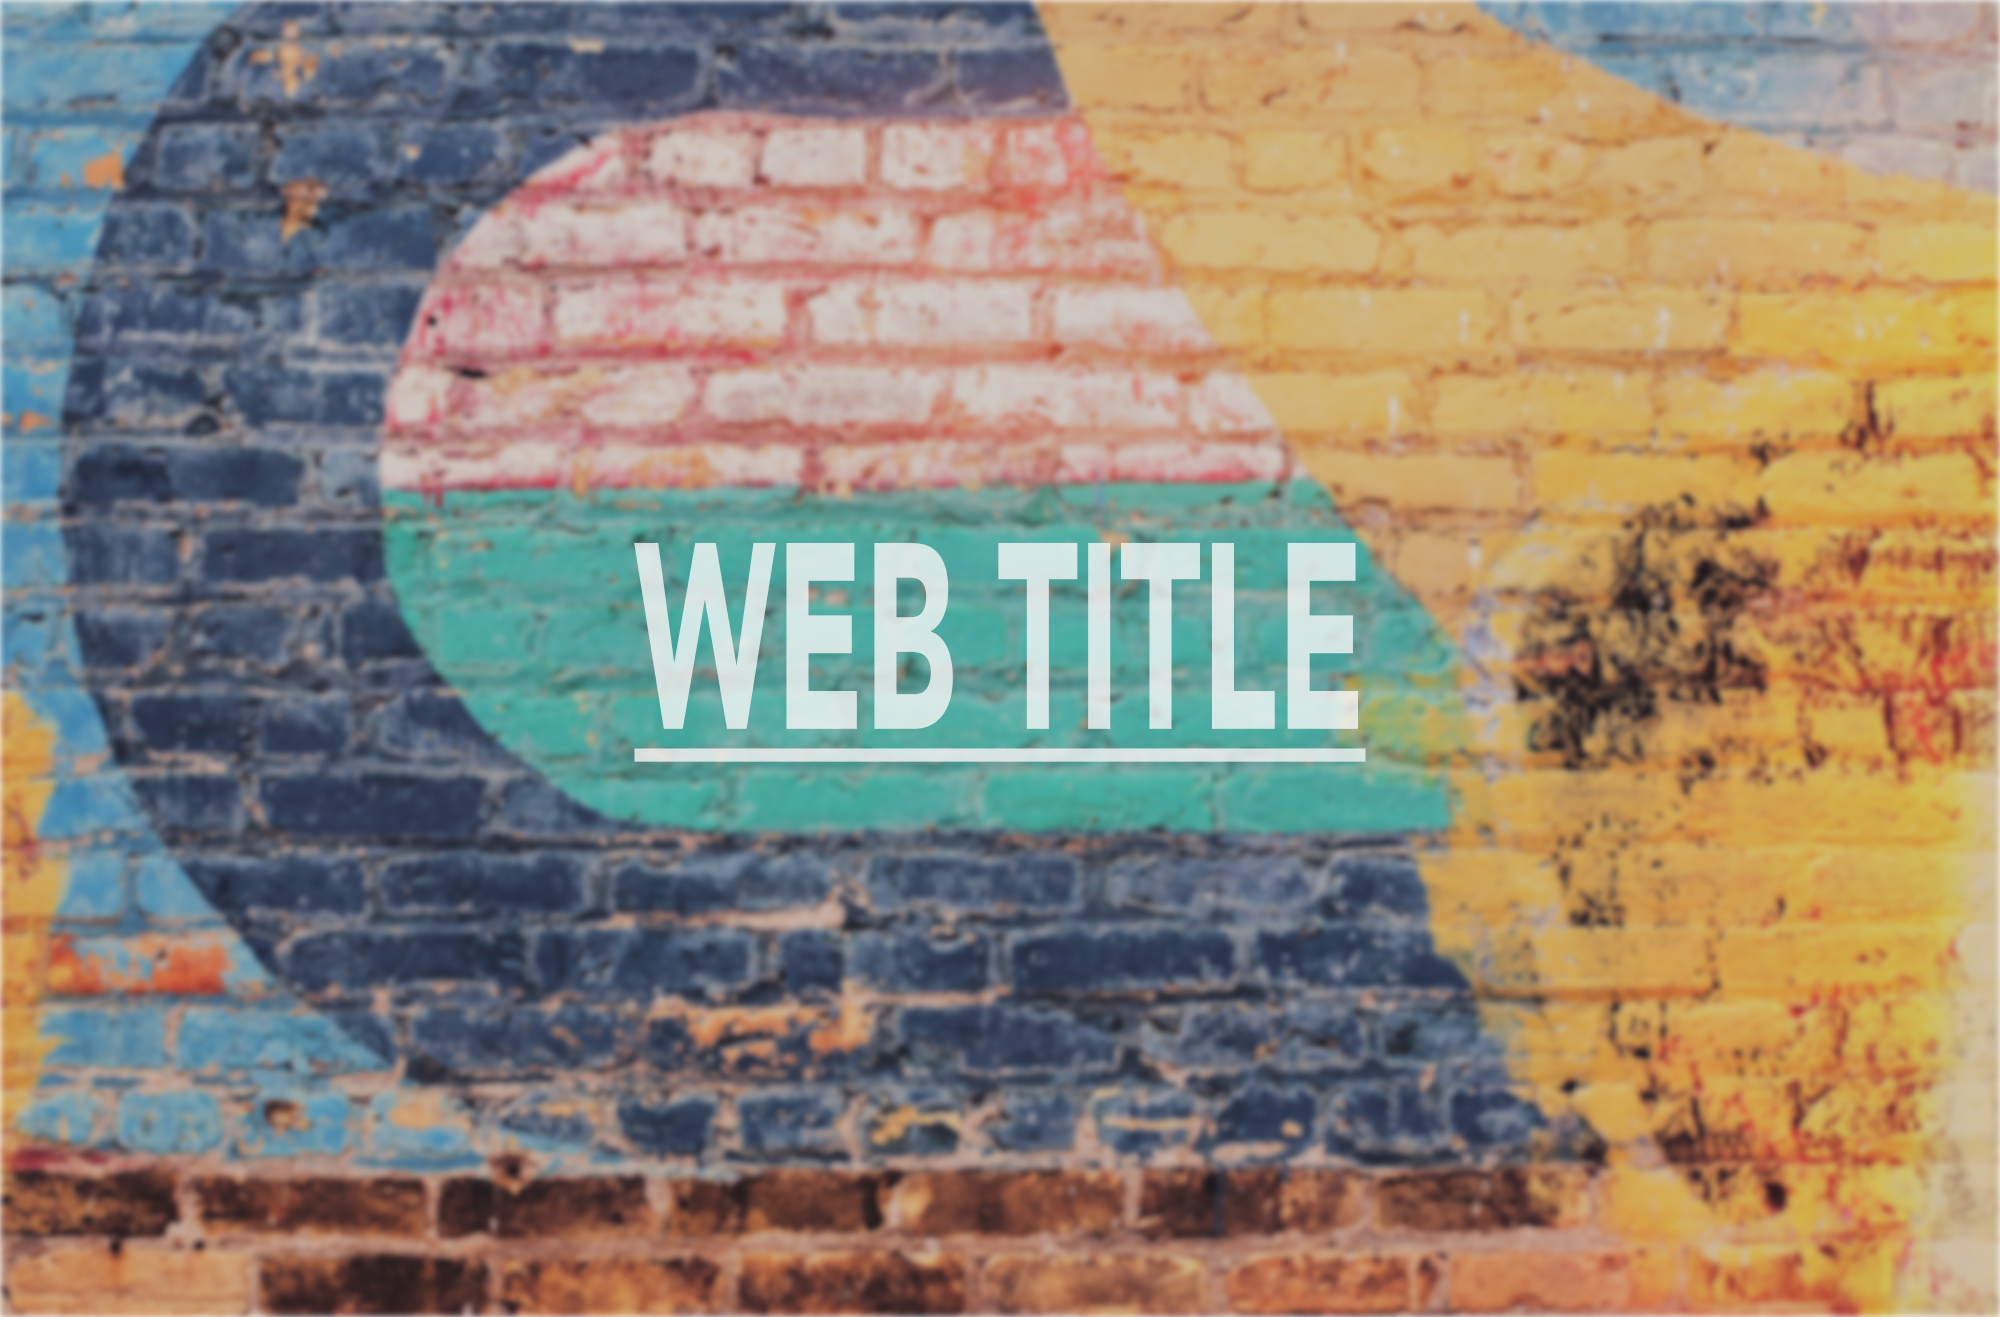
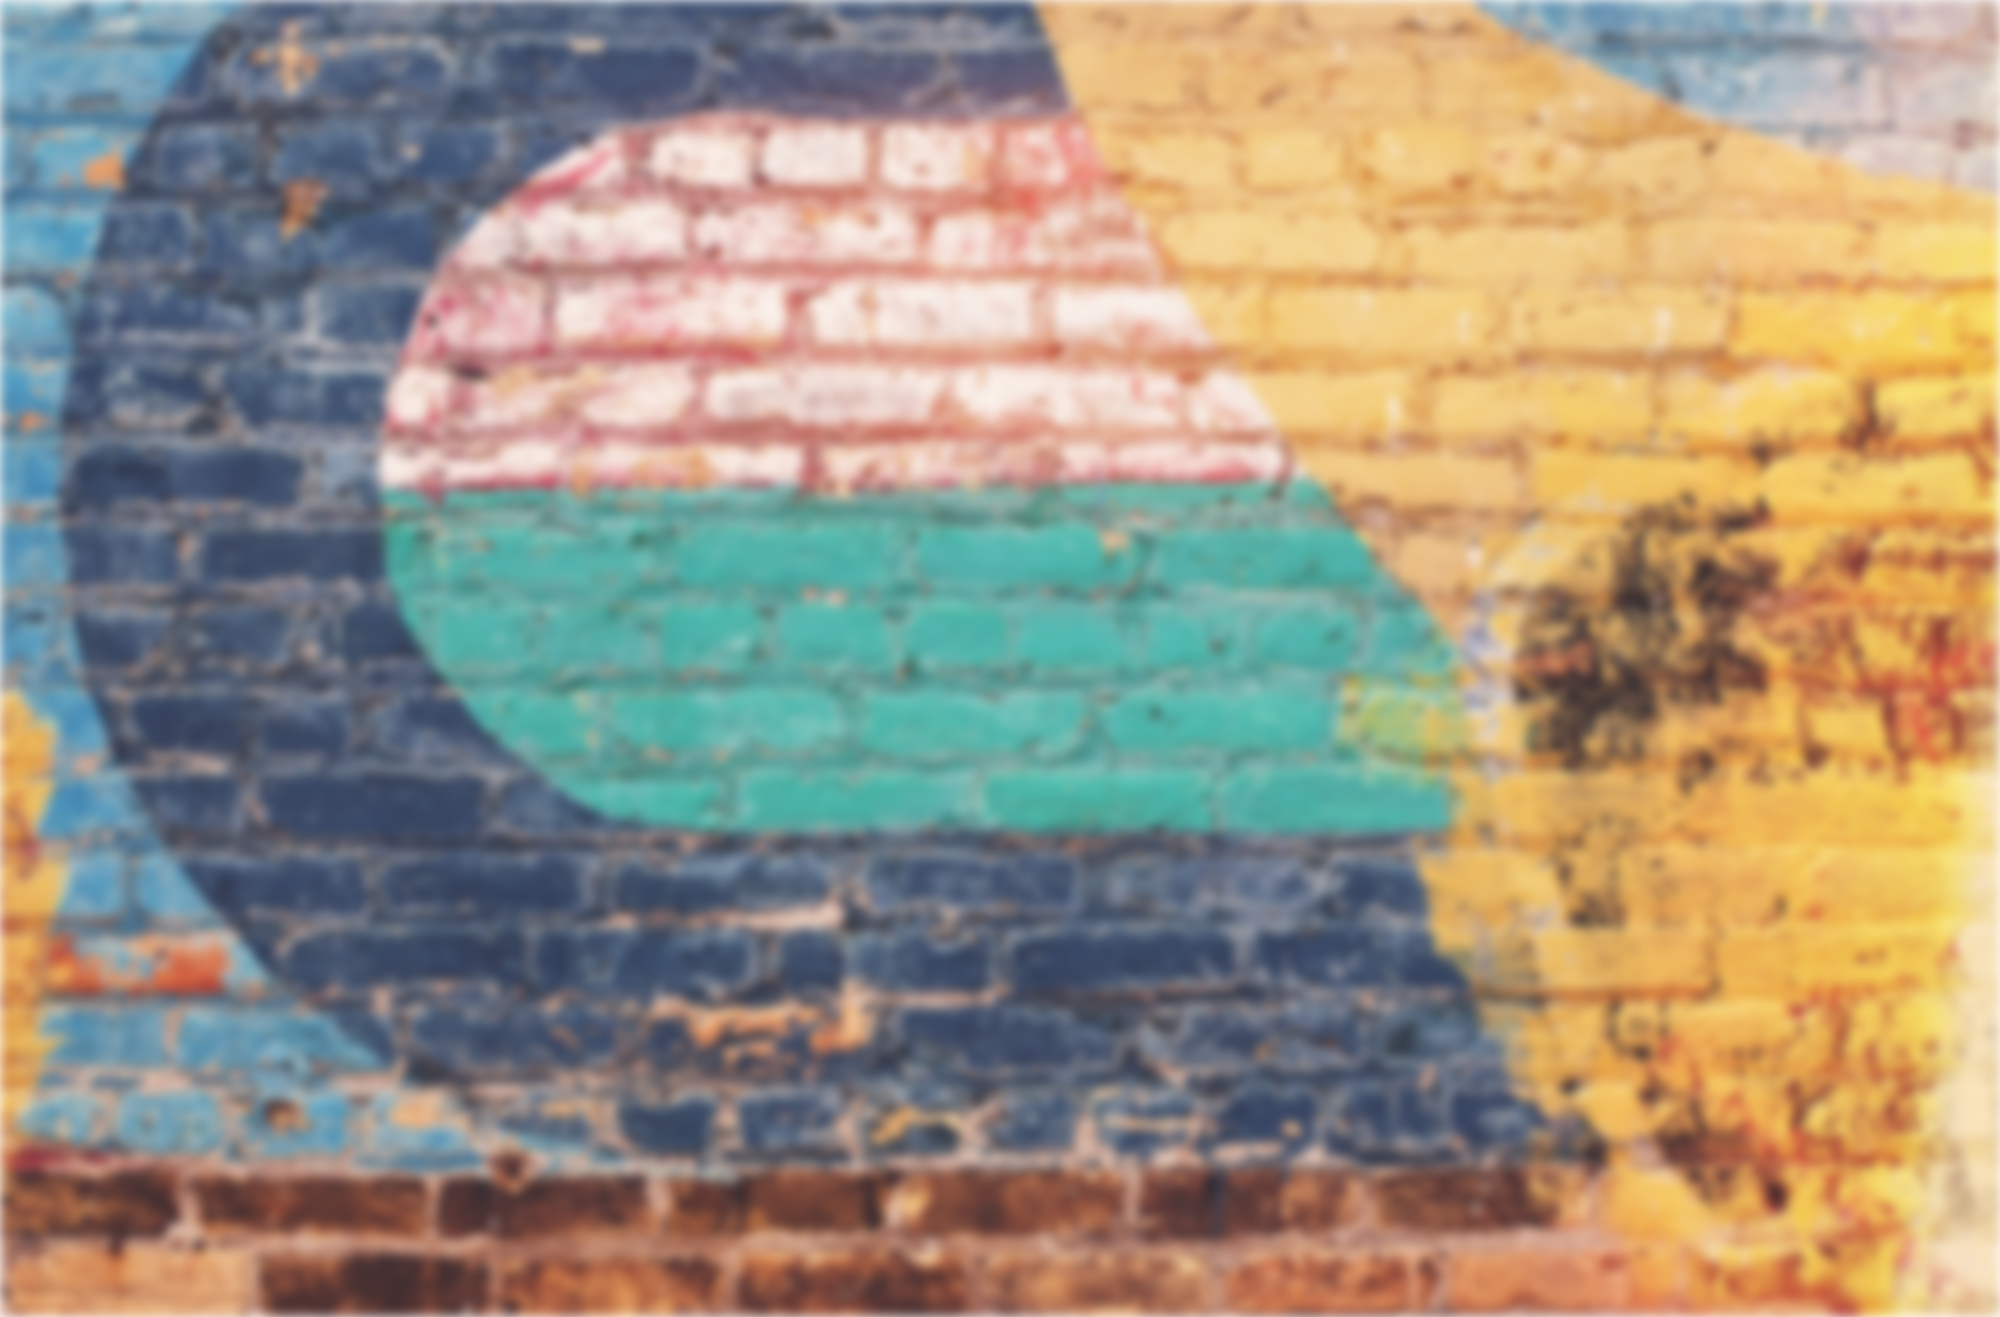
menu bar added / design altered

diff --git a/style.css b/style.css
@@ -1,15 +1,56 @@
-body {
+* {
   margin: 0;
   padding: 0;
-}
-img {
-  height: 710px;
-  width: 100%;
-  position: relative;
-  z-index: -1;
+  font-family: Avenir, Avenir Next, Arial, sans-serif;
 }
 
-div {
+#firstPanel {
+  height: 810px;
+  width: 100%;
+  background: url('wall-blur.png') no-repeat center;
+  background-size: 101% 101%;
+  position: relative;
+  text-align: center;
+}
+
+header {
+  height: 100px;
+  background-color: rgba(255, 255, 255, 0.6);
+}
+
+ul {
+  list-style: none;
+}
+
+li {
+  width: 200px;
+  display: inline-block;
+  vertical-align: middle;
+  font-size: 26px;
+  color: #666;
+  line-height: 100px;
+}
+
+li:hover {
+  background-color: rgba(255, 155, 155, 0.5);
+  color: #fff;
+}
+
+h1 {
+  font-size: 100px;
+  font-weight: 400;
+  color: rgba(255, 255, 255, 0.6);
+  position: relative;
+  top: 240px;
+}
+
+span {
+  margin-right: 5px;
+  padding: 0 5px 0 8px;
+  border: 10px solid rgba(255, 255, 255, 0.6);
+}
+
+#secondPanel {
   height: 800px;
   width: 100%;
   margin-top: -10px;

diff --git a/index.html b/index.html
@@ -5,8 +5,18 @@
     <link rel="stylesheet" href="style.css">
   </head>
   <body>
-    <img id="wall" src="wall-blur.png" alt="wall image">
-    <div></div>
+    <div id="firstPanel">
+      <header>
+        <ul>
+          <li>Eenie</li>
+          <li>Meenie</li>
+          <li>Miney</li>
+          <li>Moe</li>
+        </ul>
+      </header>
+      <h1><span>WEB</span>SITE</h1>
+    </div>
+    <div id="secondPanel"></div>
     <script src="script.js"></script>
   </body>
 </html>

diff --git a/script.js b/script.js
@@ -1,8 +1,7 @@
 var img, y;
 function parallex() {
-  //find y position on page
   y = window.pageYOffset;
-  img = document.getElementById('wall');
-  img.style.top = y * 0.4 + 'px';
+  img = document.getElementById('firstPanel');
+  img.style.top = y * 0.5 + 'px';
 }
 window.addEventListener('scroll', parallex);
